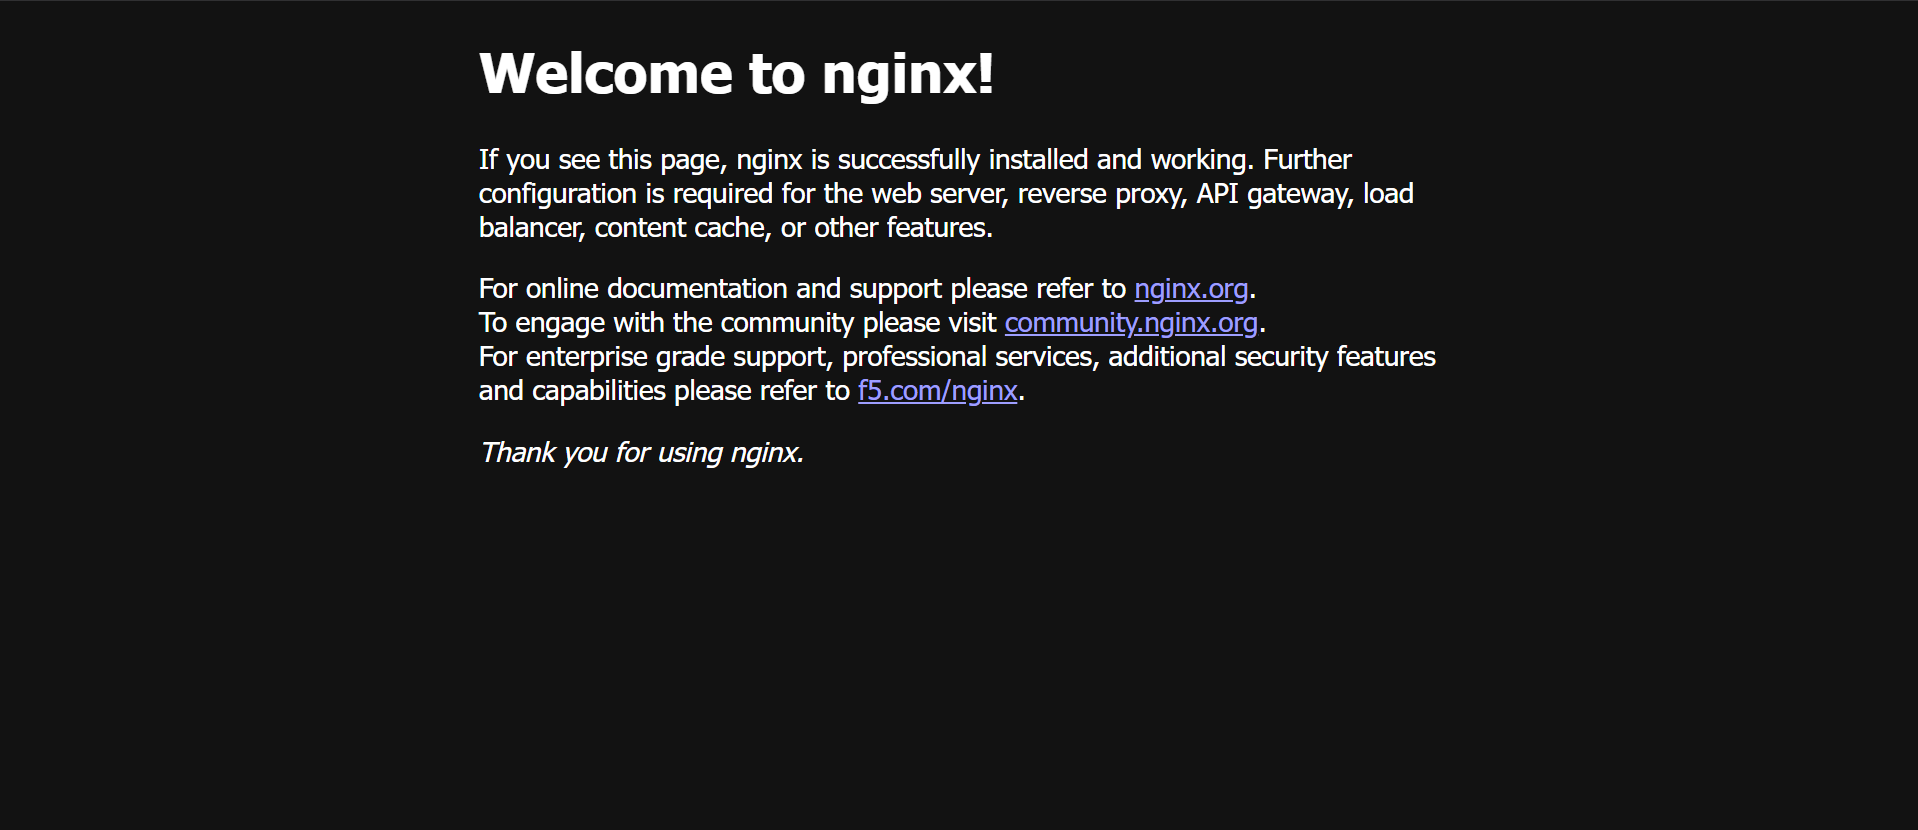
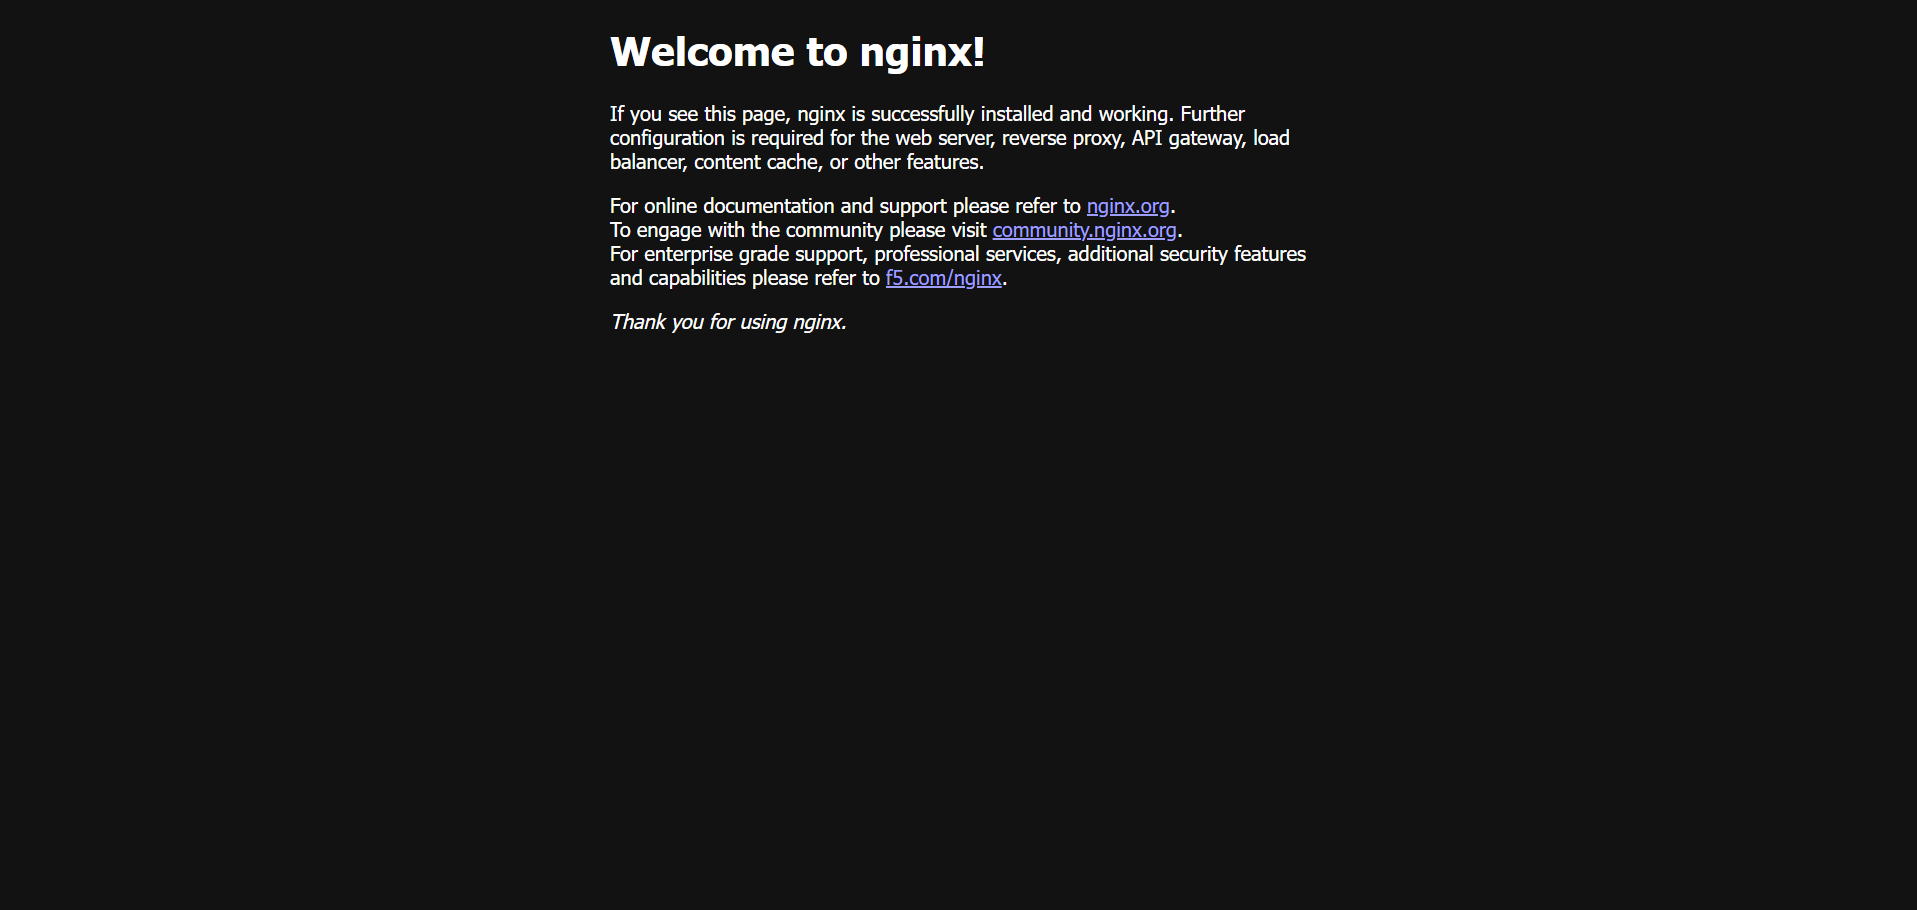
completed

Changed region(s): [[0.2462, 0.0301, 0.7694, 0.4819], [0.2462, 0.512, 0.4309, 0.5723]]

diff --git a/Exercise-1/exercise1.md b/Exercise-1/exercise1.md
@@ -1,5 +1,123 @@
-Steps of Execution
-Run The following commands:
+# Exercise 1 – Hello Pod
+
+## Objective
+
+Deploy an Nginx container as a Kubernetes Pod using Minikube, expose it using a NodePort Service, and access the application through a web browser.
+
+## Environment
+
+* OS: Windows 11
+* Kubernetes: v1.35.1
+* Minikube: v1.38.1
+* Container Runtime: Docker
+* Application: Nginx
+
+## 1. Start Minikube
+
+Start the local Kubernetes cluster:
+
+```bash
+minikube start
+```
+
+Minikube successfully started using Docker as the container driver, and `kubectl` was configured to use the Minikube cluster.
+
+## 2. Create the Pod
+
+Create a Pod named `hello-k8s` using the Nginx image:
+
+```bash
+kubectl run hello-k8s --image=nginx --port=80
+```
+
+Output:
+
+```text
+pod/hello-k8s created
+```
+
+## 3. Verify the Pod
+
+Check the status of the Pod:
+
+```bash
+kubectl get pods
+```
+
+The Pod successfully reached the `Running` state:
+
+```text
+NAME        READY   STATUS    RESTARTS
+hello-k8s   1/1     Running   0
+```
+
+The `1/1` status indicates that the Nginx container is ready and running.
+
+![Kubernetes Deployment](image.png)
+
+## 4. Expose the Pod
+
+Expose the Pod using a NodePort Service:
+
+```bash
+kubectl expose pod hello-k8s --type=NodePort --port=80
+```
+
+Output:
+
+```text
+service/hello-k8s exposed
+```
+
+The Pod is now accessible through the Kubernetes Service.
+
+## 5. Access the Application
+
+Open the Service using Minikube:
+
+```bash
+minikube service hello-k8s
+```
+
+Minikube created a tunnel for the Service and opened the application in the browser.
+
+The Nginx welcome page was successfully displayed:
+
+![Nginx Welcome Page](image2.png)
+
+## 6. Kubernetes Working
+
+The basic flow for creating the Pod is:
+
+```text
+kubectl
+   ↓
+Kubernetes API Server
+   ↓
+etcd
+   ↓
+Scheduler
+   ↓
+Worker Node
+   ↓
+Kubelet
+   ↓
+Container Runtime
+   ↓
+Nginx Container
+```
+
+* `kubectl` sends the Pod creation request to the Kubernetes API Server.
+* The cluster state is maintained in `etcd`.
+* The Scheduler selects a node for the Pod.
+* The Kubelet on the selected node ensures that the Pod is running.
+* The container runtime creates the Nginx container.
+* The Nginx application runs on port `80`.
+* The NodePort Service provides access to the Pod.
+
+## 7. Commands Used
+
+```bash
 minikube start
 
 kubectl run hello-k8s --image=nginx --port=80
@@ -9,3 +127,10 @@ kubectl get pods
 kubectl expose pod hello-k8s --type=NodePort --port=80
 
 minikube service hello-k8s
+```
+
+## 8. Result
+
+The Nginx application was successfully deployed as a Kubernetes Pod on Minikube.
+
+The Pod reached the `Running` state, was exposed using a NodePort Service, and the Nginx welcome page was successfully accessed through the browser.
